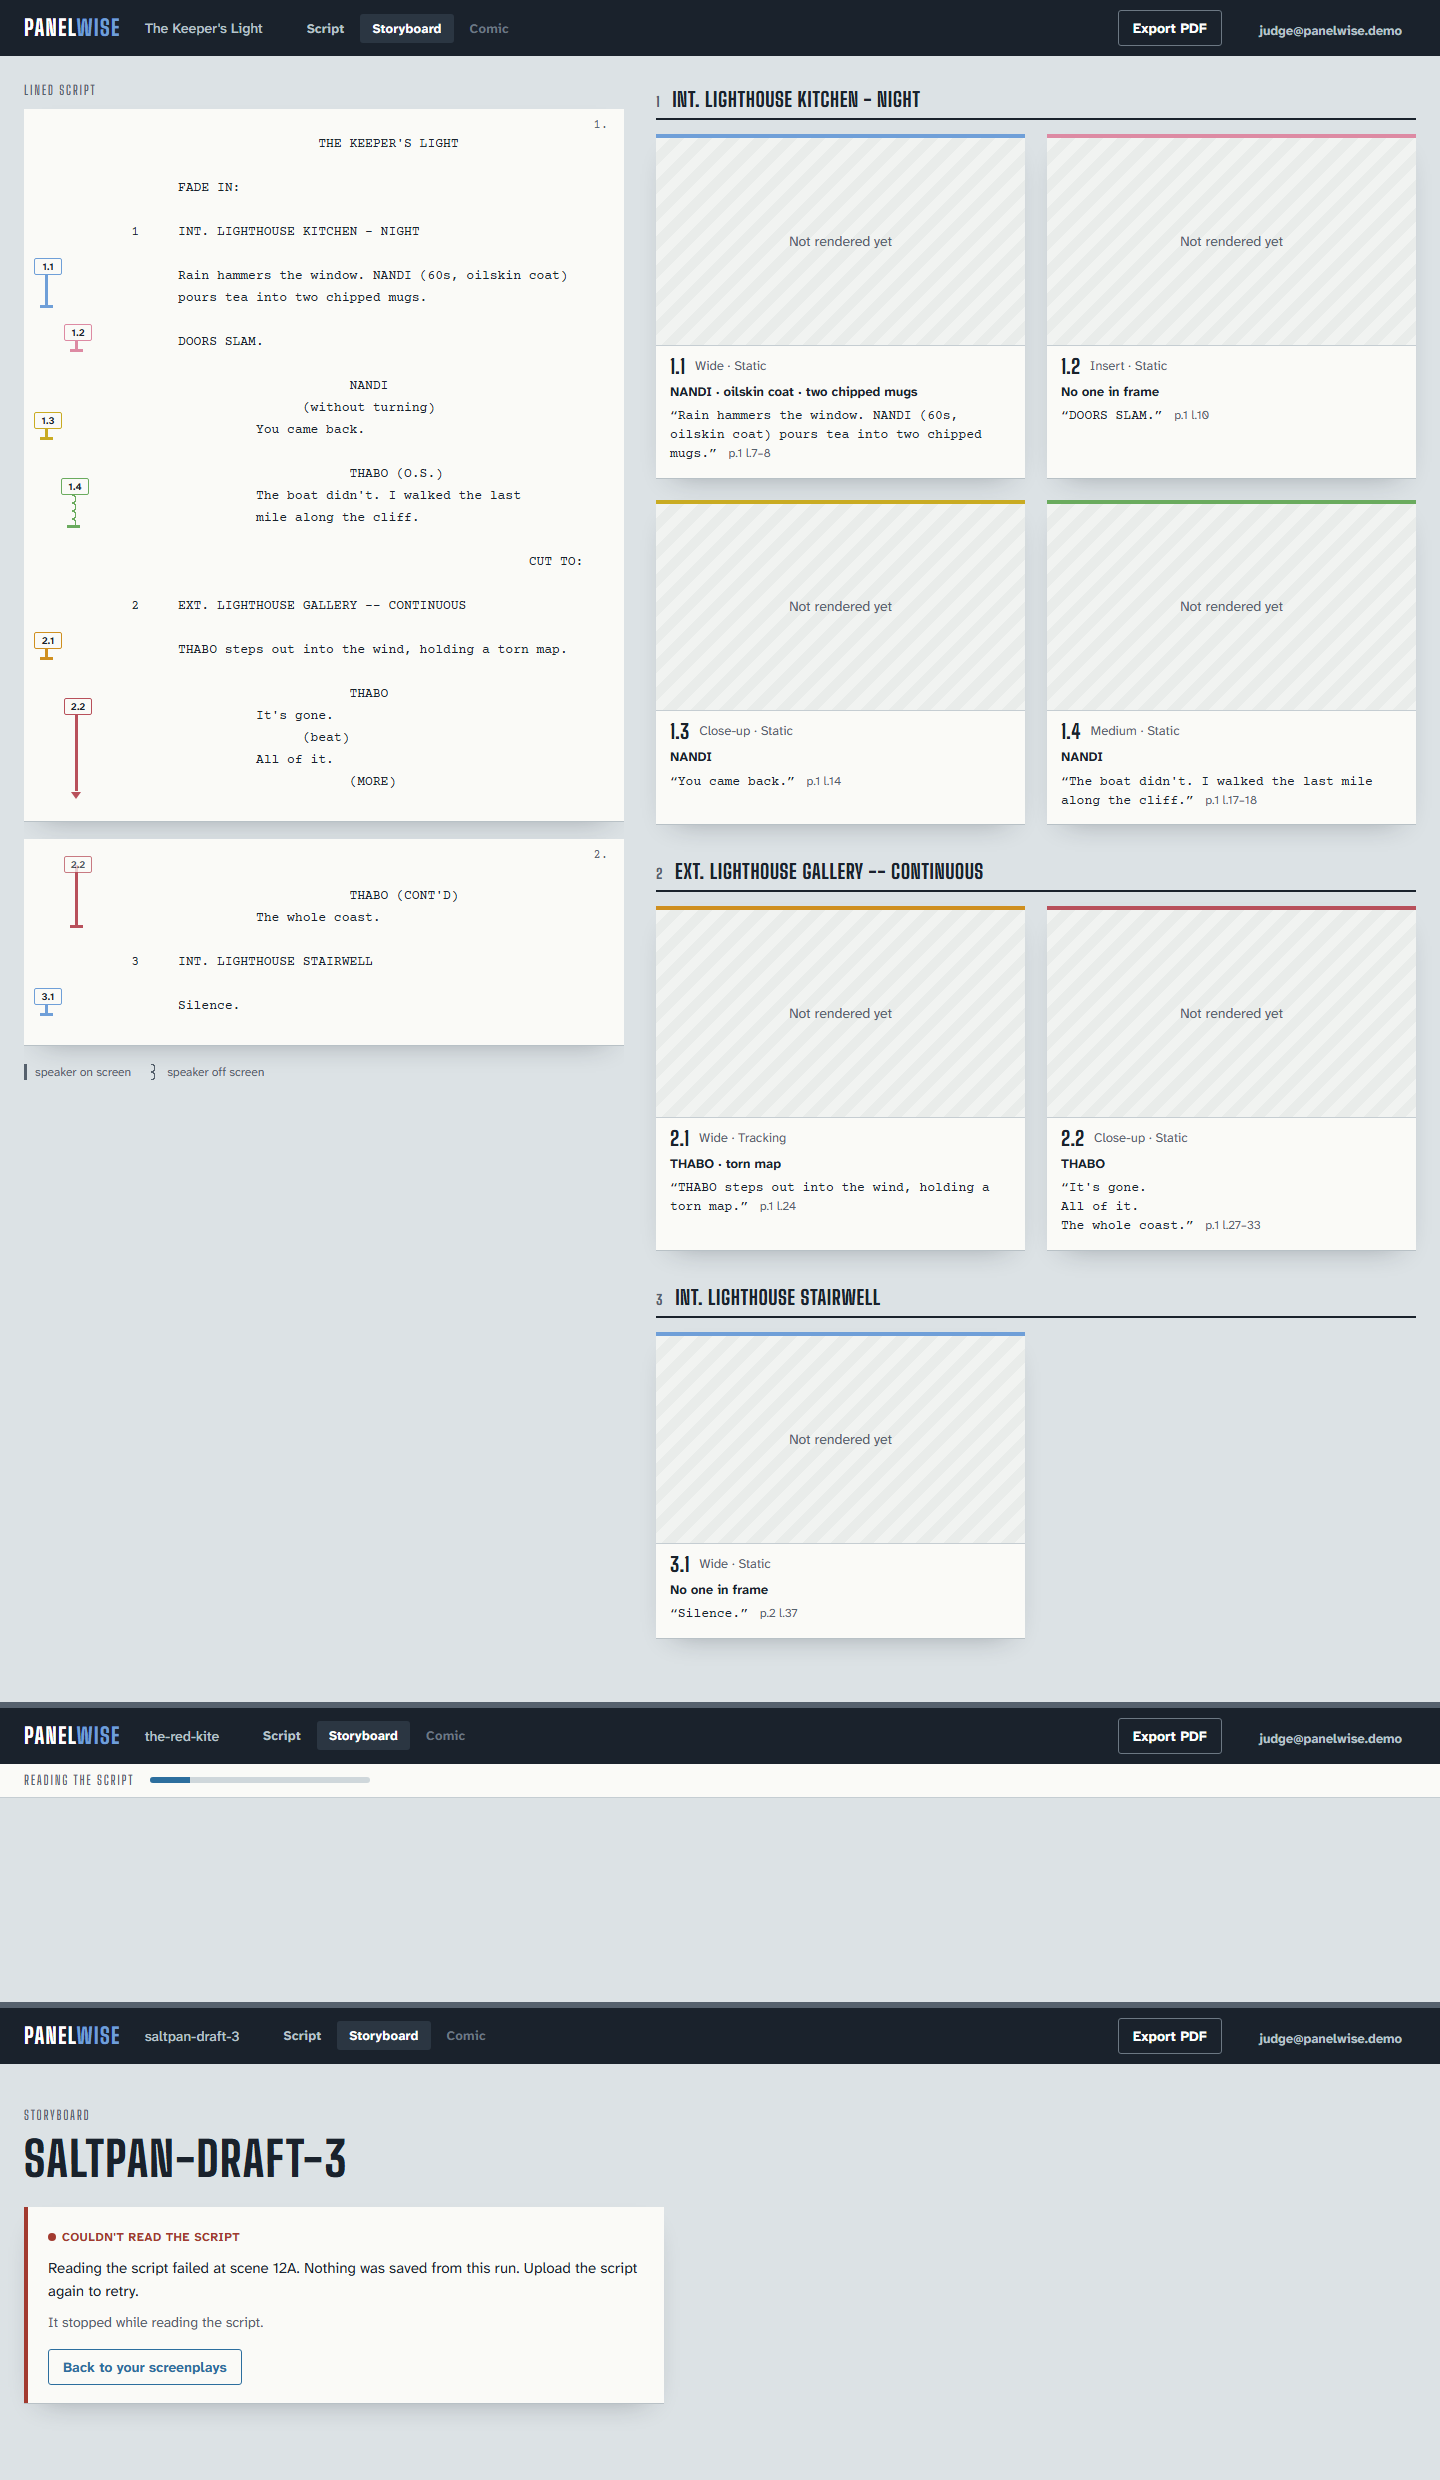
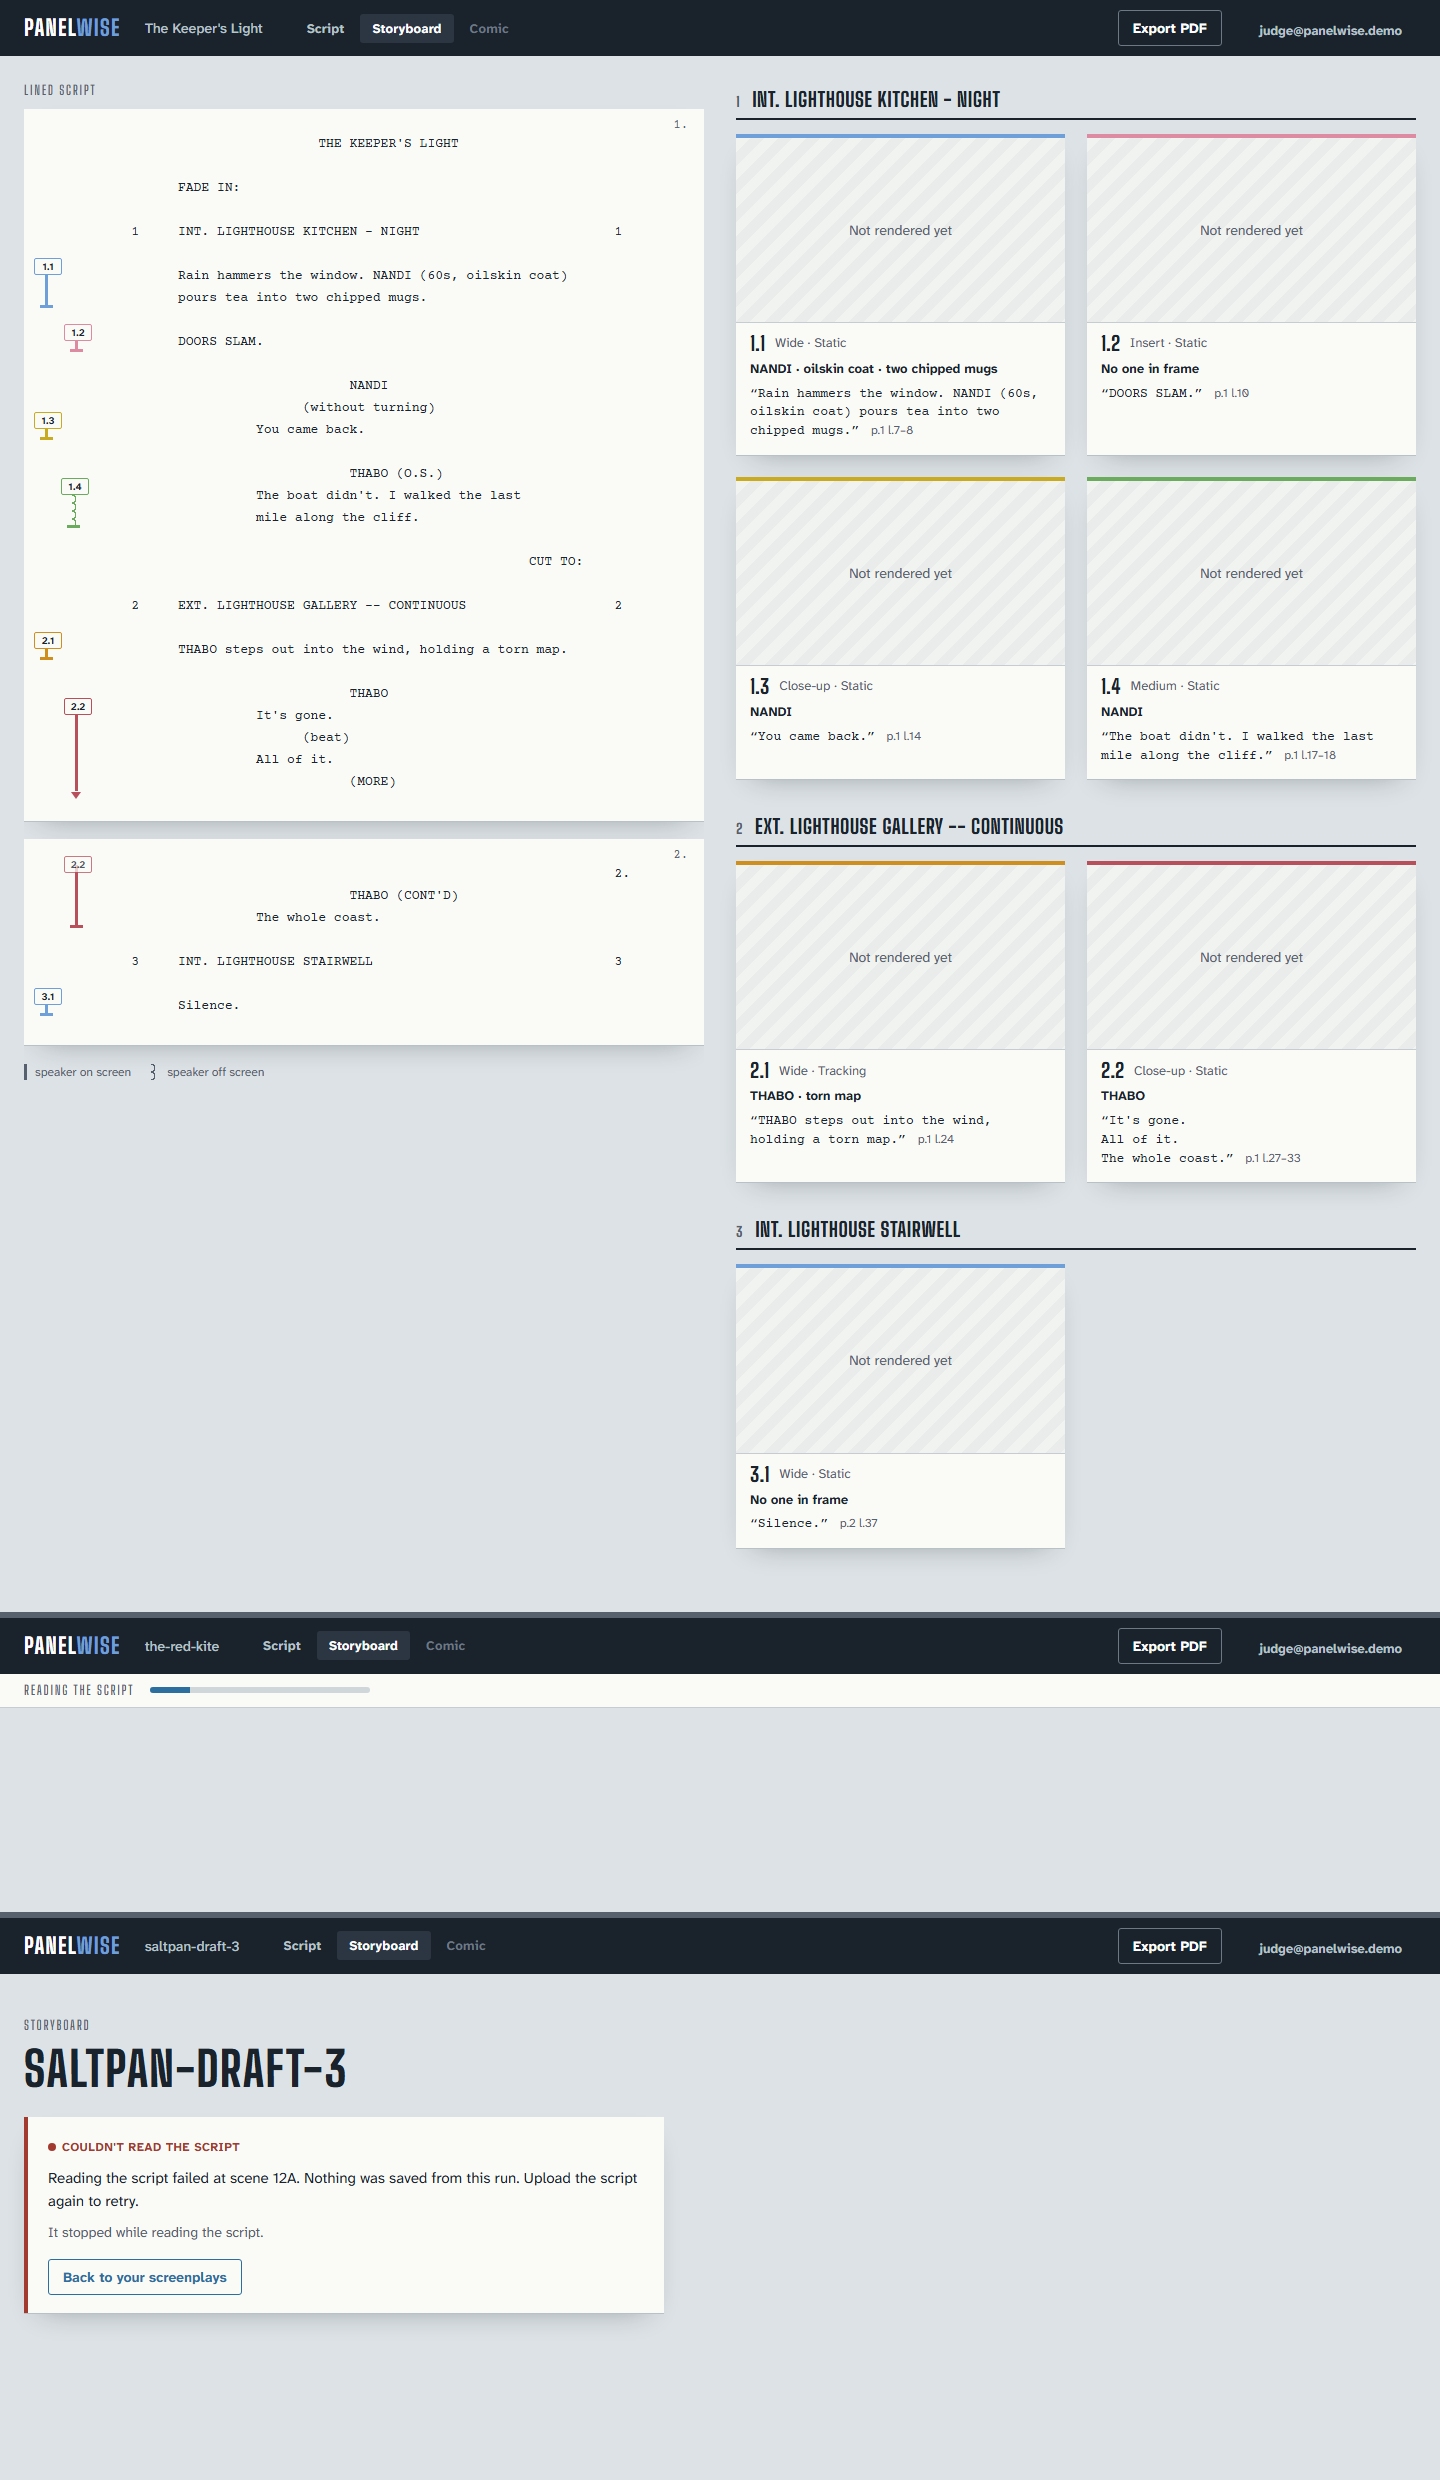
docs(web): T042 the lined column holds a 75-character line (680 px); card headers wrap whole
Found on the live the-red-kite storyboard: at 600 px its lines were clipped
(the lighthouse mockup clipped its own right-hand scene numbers too).

Changed region(s): [[0.0, 0.031, 1.0, 0.9935], [0.8125, 0.4036, 0.875, 0.4347]]

diff --git a/docs/design/web/mockups/storyboard.css b/docs/design/web/mockups/storyboard.css
@@ -7,7 +7,7 @@
 .meter span { display: block; height: 100%; background: var(--pencil); }
 
 .board {
-  display: grid; grid-template-columns: minmax(520px, 600px) 1fr; gap: 32px;
+  display: grid; grid-template-columns: minmax(520px, 680px) 1fr; gap: 32px;
   padding: 28px 24px 64px; max-width: 1600px; margin: 0 auto; align-items: start;
 }
 
@@ -64,7 +64,8 @@
 .card.sel { outline: 2px solid var(--pencil); outline-offset: 3px; }
 .media { aspect-ratio: 16 / 9; background: #f1f3f1; border-bottom: 1px solid var(--rule); overflow: hidden; }
 .media svg { width: 100%; height: 100%; display: block; }
-.card header { display: flex; align-items: center; gap: 10px; padding: 10px 14px 0; }
+.card header { display: flex; flex-wrap: wrap; align-items: center; gap: 4px 10px; padding: 10px 14px 0; }
+.card header > * { white-space: nowrap; }
 .sid { font: 800 20px/1 var(--font-display); }
 .cam { font-size: 13px; color: var(--ink-2); }
 .card .verdict { margin-left: auto; }

diff --git a/docs/design/web.md b/docs/design/web.md
@@ -426,6 +426,10 @@ state (§4.1), drawn in storyboard-states.png.
   of a dialogue element whose speaker is not in the shot's characters, and straight elsewhere
   (`ShotView.segments`). A shot that runs past a page's end ends in an arrowhead and continues at
   the top of the next page.
+  **Column:** `minmax(520px, 680px)` beside the board: 680 px holds a 75-character line (13 px
+  Courier Prime advances 7.8 px a character, plus the 96 px gutter and margins; the-red-kite's
+  longest is 75), so a real script reads without scrolling at 1440 px; a longer line scrolls
+  inside the column and is never clipped.
   **Geometry** (storyboard.html, storyboard.css): pages split `LinesView.lines` at `page_starts`
   (page *p* holds lines `page_starts[p-1]` up to the next start, numbered globally, as spans are);
   13 px Courier Prime on a 22 px line, the global line number in a 10 px margin column, every line
